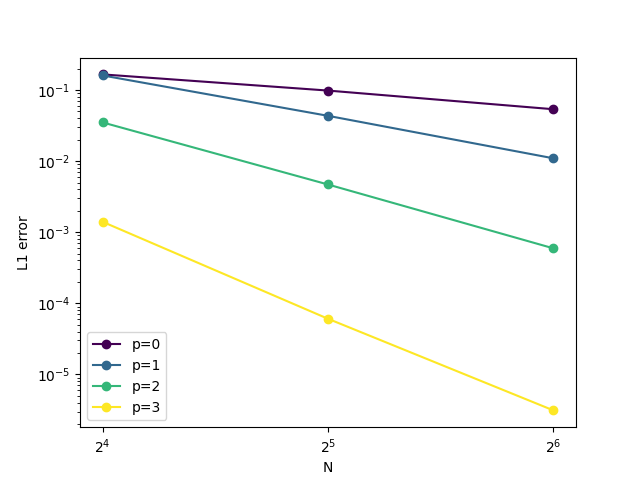
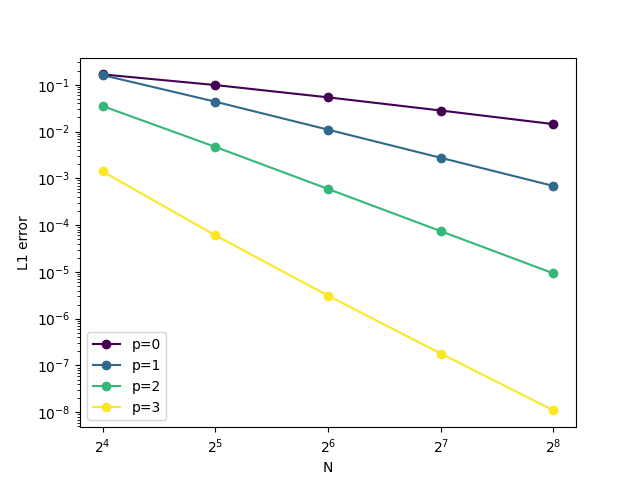
fix: loading from pickle when cupy=True, add: SLURM scripts

diff --git a/benchmarks/advection_error_convergence/AdvectionSolver/__main__.py b/benchmarks/advection_error_convergence/AdvectionSolver/__main__.py
@@ -12,16 +12,16 @@ from superfv.tools.norms import l1_norm
 # problem inputs
 OUTPUT_NAME = "benchmarks/advection_error_convergence/AdvectionSolver/" + "plot.png"
 DIMS = "xy"
-N_LIST = [16, 32, 64]
+N_LIST = [16, 32, 64, 128, 256]
 P_LIST = [0, 1, 2, 3]
-OTHER_INPUTS = dict(interpolation_scheme="gauss-legendre")
-# OTHER_INPUTS = dict(
-#     interpolation_scheme="transverse",
-#     ZS=True,
-#     adaptive_timestepping=False,
-#     SED=True,
-#     lazy_primitives=False,
-# )
+OTHER_INPUTS = dict(
+    interpolation_scheme="gauss-legendre",
+    cupy=True,
+    # ZS=True,
+    # adaptive_timestepping=False,
+    # SED=True,
+    # lazy_primitives=False,
+)
 
 # remove old output
 if os.path.exists(OUTPUT_NAME):

diff --git a/superfv/tools/device_management.py b/superfv/tools/device_management.py
@@ -198,8 +198,5 @@ class ArrayManager:
         """
         Get the state of the ArrayManager for serialization.
         """
-        return {
-            "arrays": {k: cp_array_to_numpy_array(v) for k, v in self.arrays.items()},
-            "device": "cpu",
-            "transfer_array": self._dummy_transfer_array,
-        }
+        self.transfer_to_device("cpu")
+        return self.__dict__.copy()

diff --git a/superfv/finite_volume_solver.py b/superfv/finite_volume_solver.py
@@ -1833,4 +1833,8 @@ class FiniteVolumeSolver(ExplicitODESolver, ABC):
 
     def __setstate__(self, state):
         self.__dict__.update(state)
-        self.xp = xp if self.cupy else np
+        if self.cupy:
+            self.xp = xp
+            self.arrays.transfer_to_device("gpu")
+        else:
+            self.xp = np

diff --git a/benchmarks/profiling/build_solver.py b/benchmarks/profiling/build_solver.py
@@ -1,3 +1,5 @@
+import pickle
+
 import superfv.initial_conditions as ic
 from superfv import AdvectionSolver
 
@@ -14,5 +16,5 @@ sim = AdvectionSolver(
     log_every_step=False,
 )
 
-if __name__ == "__main__":
-    sim.run(n=5, no_snapshots=True)
+with open("out/profiling_solver.pkl", "wb") as f:
+    pickle.dump(sim, f)

diff --git a/benchmarks/profiling/run_solver.py b/benchmarks/profiling/run_solver.py
@@ -1,0 +1,6 @@
+import pickle
+
+with open("out/profiling_solver.pkl", "rb") as f:
+    sim = pickle.load(f)
+
+sim.euler(n=5, progress_bar=False, no_snapshots=True)
